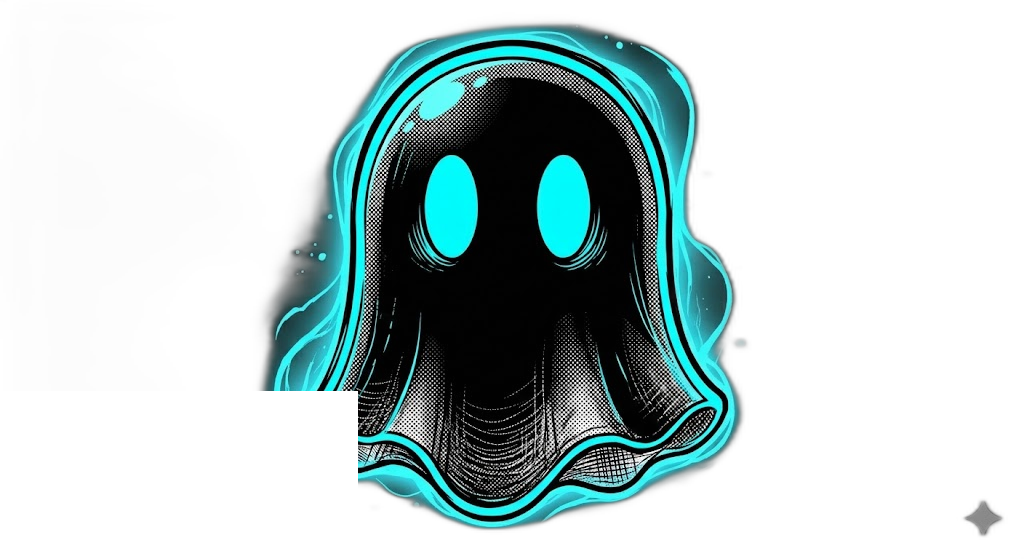
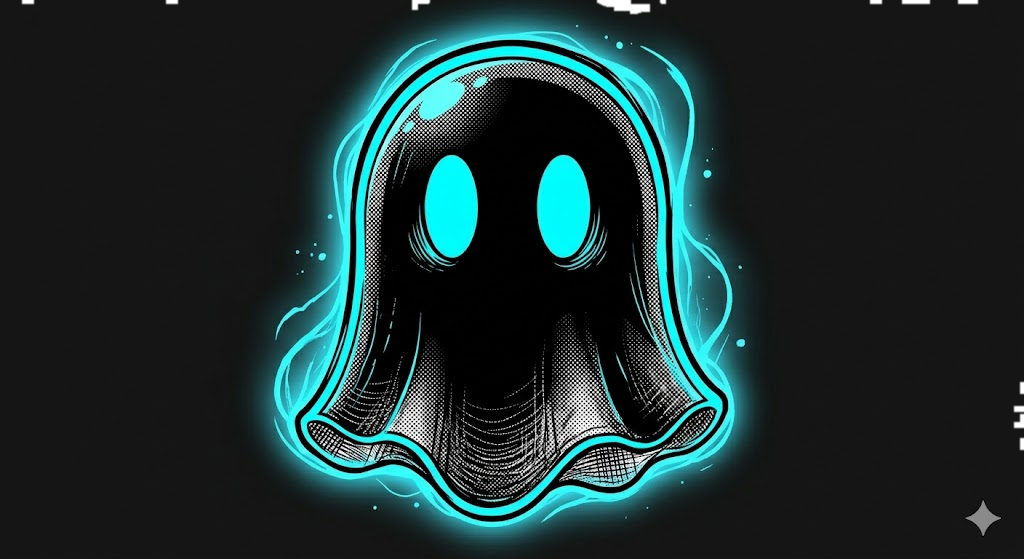
fix(FIA-004): as-built refine ghost size and crop

diff --git a/src/style.css b/src/style.css
@@ -59,10 +59,12 @@ main {
 
 /* UI Primitives */
 .ghost-hero {
-  max-width: 250px;
+  max-width: 100px;
   height: auto;
-  filter: drop-shadow(0 0 40px rgba(0, 229, 255, 0.3));
+  opacity: 0.6;
+  filter: drop-shadow(0 0 20px rgba(0, 229, 255, 0.2));
   animation: float 6s ease-in-out infinite;
+  pointer-events: none;
 }
 
 @keyframes float {
